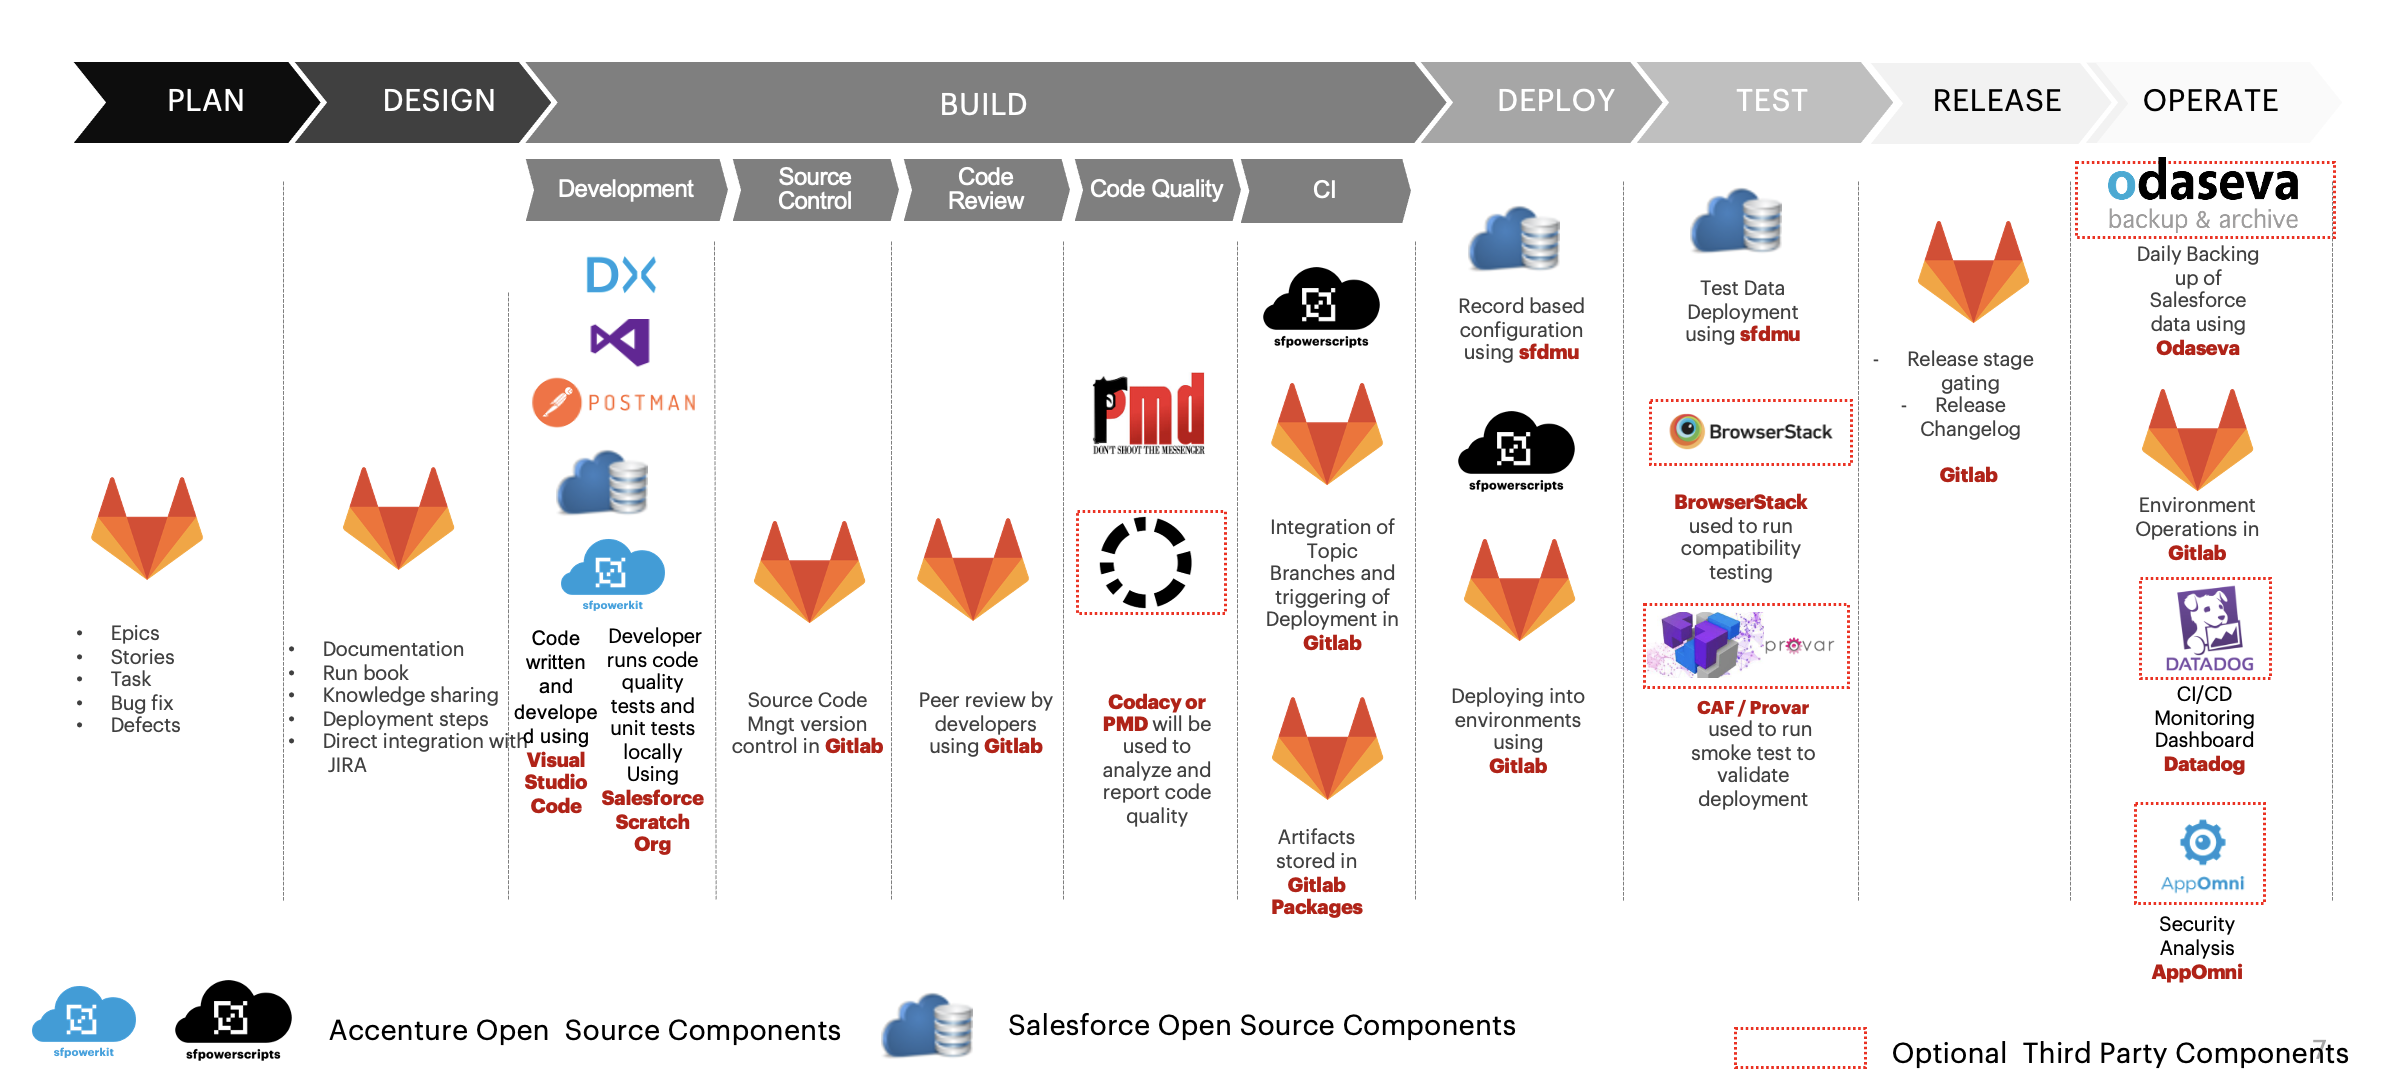
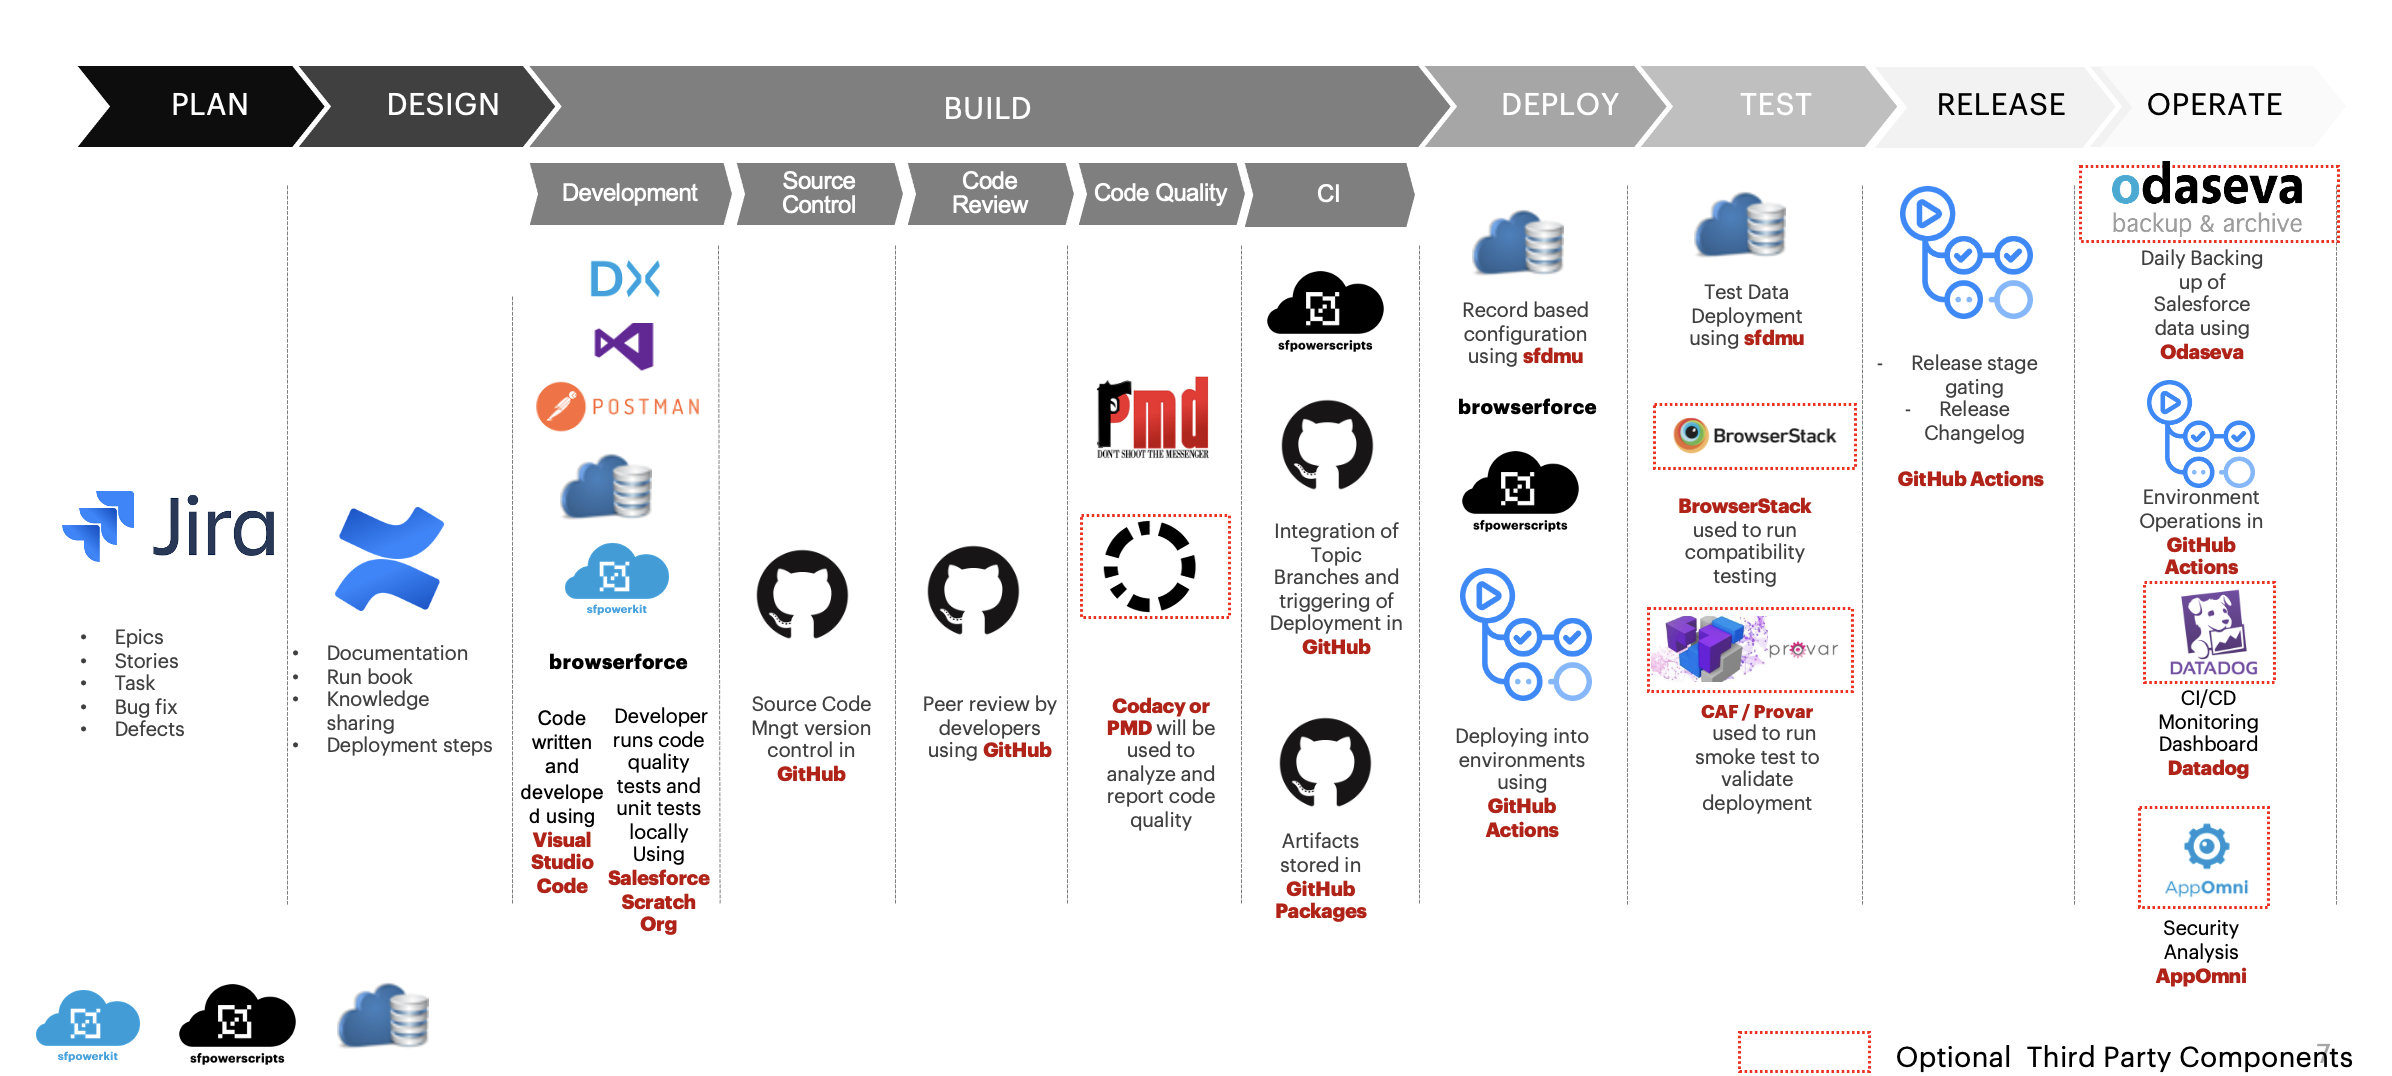
GitBook: [master] one page and 5 assets modified

diff --git a/reference-implementations.md b/reference-implementations.md
@@ -4,13 +4,25 @@ DX@Scale can be implemented by combining any  CI/CD platforms with an [artifact 
 
 ## **Gitlab**
 
-![](.gitbook/assets/image%20%285%29.png)
+![](.gitbook/assets/image%20%286%29.png)
 
 ## **Azure DevOps**  
 
-![](.gitbook/assets/image%20%282%29.png)
+This implementation predominantly utilizes application from Azure DevOps suite
 
+![](.gitbook/assets/image%20%285%29.png)
 
+Starter Pipelines for Azure DevOps are available [here](https://github.com/dxatscale/easy-spaces-lwc/tree/develop/.azure-pipelines)
 
+## GitHub 
+
+This reference implementation utilizes predominantly GitHub along with Jira and Confluence.
+
+![](.gitbook/assets/image%20%287%29.png)
+
+  
+Starter pipelines for Github are available [here](https://github.com/dxatscale/easy-spaces-lwc/tree/develop/.github)
+
+  
 Please reach out to the team for analysis on tool stacks and our highly biased opinions on various stacks.
 
